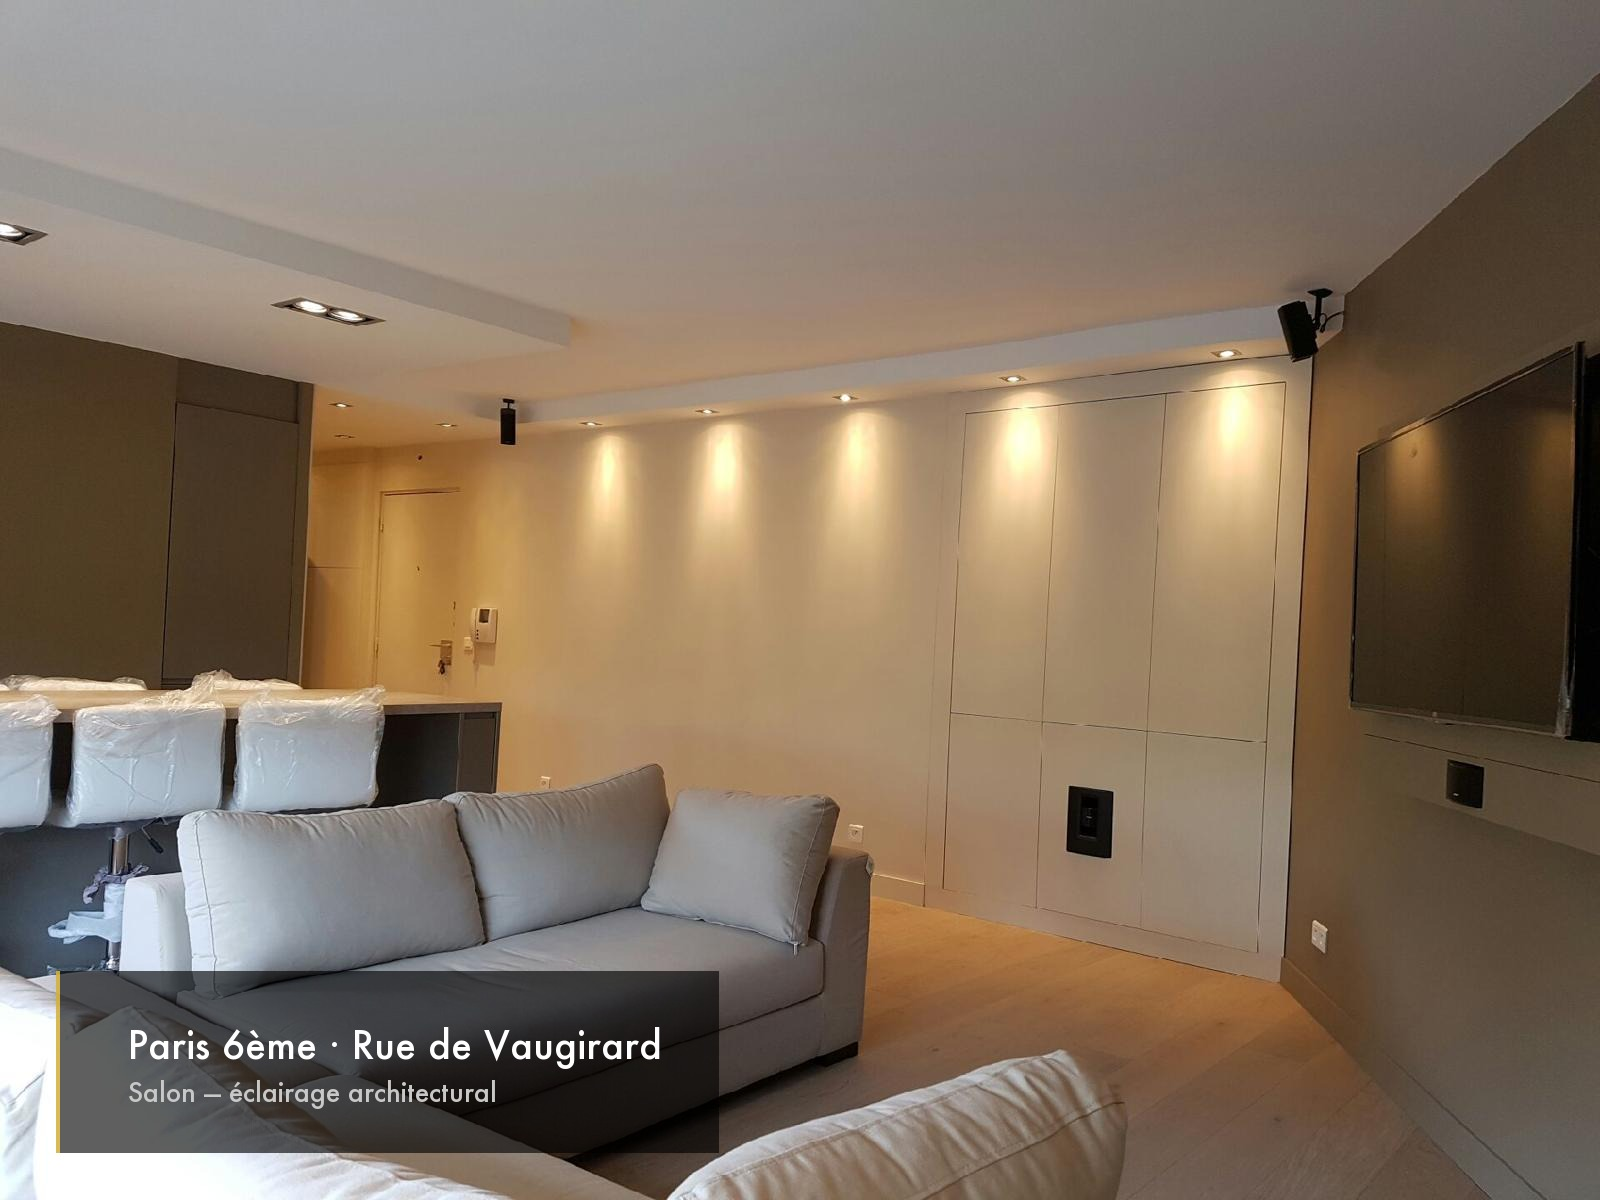
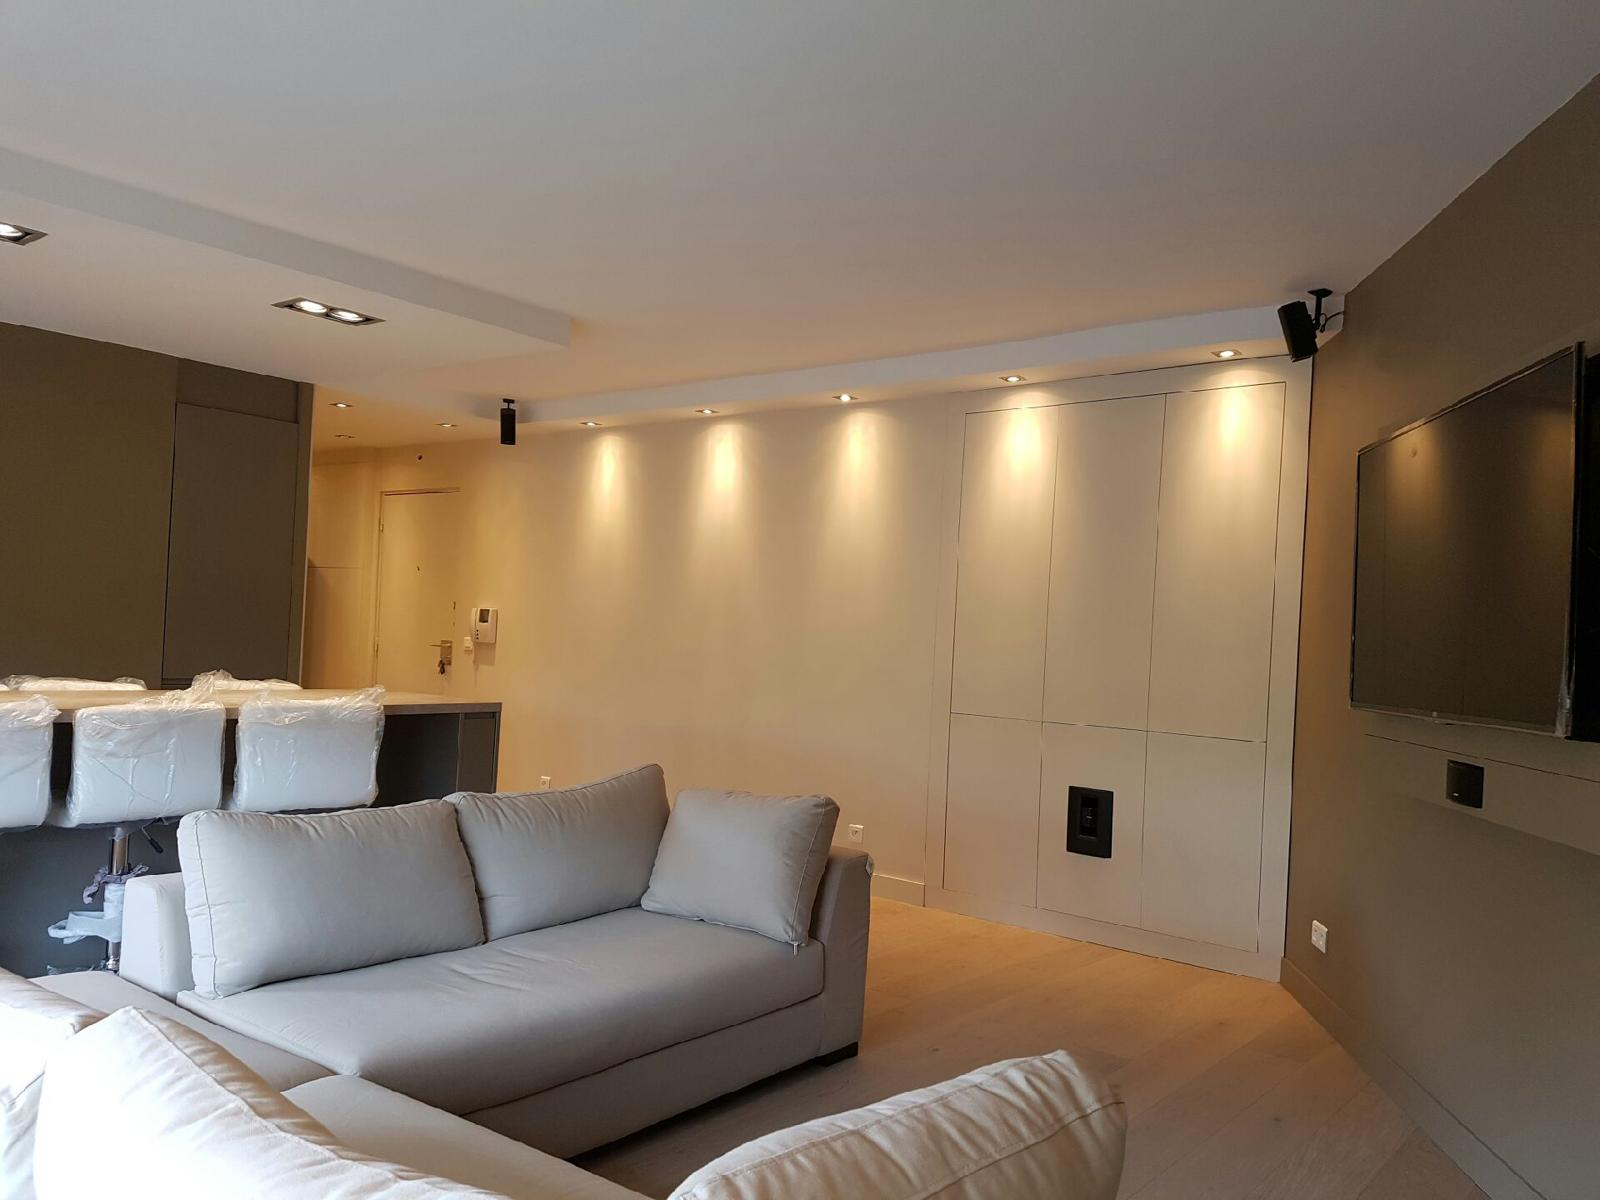
Refonte hero : layout split photos + texte compact, suppression plein écran

Changed region(s): [[0.0312, 0.8017, 0.4688, 0.9867]]

diff --git a/src/app/page.tsx b/src/app/page.tsx
@@ -53,53 +53,83 @@ const temoignages = [
 export default function HomePage() {
   return (
     <>
-      {/* Hero */}
-      <section className="relative min-h-screen flex items-center justify-center overflow-hidden">
-        <div className="absolute inset-0 bg-[#1C1C1C]" aria-hidden="true" />
-        <Image
-          src="/images/hero.jpg"
-          alt="Rénovation salon Paris — Espace Design"
-          fill
-          className="object-cover object-center opacity-45"
-          priority
-          sizes="100vw"
-        />
-
-        <div className="relative z-10 text-center px-4 sm:px-6 max-w-4xl mx-auto pt-24">
-          <div className="inline-flex items-center gap-2 bg-[#D4AF37]/20 border border-[#D4AF37]/40 text-[#D4AF37] text-xs font-medium tracking-widest uppercase px-4 py-2 rounded-full mb-6">
-            <MapPin size={12} />
-            Paris & Île-de-France
+      {/* Hero — split layout */}
+      <section className="pt-16 sm:pt-20 bg-[#FAFAF8]">
+        <div className="max-w-6xl mx-auto px-4 sm:px-6">
+          {/* Texte intro */}
+          <div className="text-center py-10 sm:py-14">
+            <div className="inline-flex items-center gap-2 bg-[#D4AF37]/10 border border-[#D4AF37]/30 text-[#B8960C] text-xs font-medium tracking-widest uppercase px-4 py-2 rounded-full mb-5">
+              <MapPin size={12} />
+              Paris & Île-de-France
+            </div>
+            <h1 className="font-display text-3xl sm:text-5xl font-bold text-[#1C1C1C] leading-tight mb-4">
+              Votre intérieur,{' '}
+              <span className="text-[#B8960C]">réinventé.</span>
+            </h1>
+            <p className="text-gray-600 max-w-xl mx-auto text-sm sm:text-base mb-8 leading-relaxed">
+              Artisan rénovateur et décorateur intérieur à Paris.
+              Finitions haut de gamme, travail soigné, résultat qui vous ressemble.
+            </p>
+            <div className="flex flex-col sm:flex-row gap-3 justify-center">
+              <a
+                href="tel:+33611783867"
+                className="flex items-center justify-center gap-2 bg-[#1C1C1C] text-white px-7 py-3.5 rounded font-semibold text-sm hover:bg-[#B8960C] transition-colors"
+              >
+                <Phone size={16} />
+                06 11 78 38 67
+              </a>
+              <Link
+                href="/contact"
+                className="flex items-center justify-center gap-2 border border-[#1C1C1C] text-[#1C1C1C] px-7 py-3.5 rounded font-medium text-sm hover:bg-[#1C1C1C] hover:text-white transition-colors"
+              >
+                Devis gratuit <ArrowRight size={14} />
+              </Link>
+            </div>
           </div>
-          <h1 className="font-display text-4xl sm:text-6xl lg:text-7xl font-bold text-white leading-tight mb-6">
-            Votre intérieur,{' '}
-            <span className="text-[#D4AF37]">réinventé.</span>
-          </h1>
-          <p className="text-lg sm:text-xl text-gray-300 max-w-2xl mx-auto mb-10 leading-relaxed">
-            Artisan rénovateur et décorateur intérieur à Paris. Des finitions
-            haut de gamme, un travail soigné, un résultat qui vous ressemble.
-          </p>
-          <div className="flex flex-col sm:flex-row gap-4 justify-center">
-            <a
-              href="tel:+33611783867"
-              className="flex items-center justify-center gap-2 bg-[#D4AF37] text-[#1C1C1C] px-8 py-4 rounded font-semibold text-base hover:bg-[#c9a030] transition-colors"
-            >
-              <Phone size={18} />
-              06 11 78 38 67
-            </a>
-            <Link
-              href="/contact"
-              className="flex items-center justify-center gap-2 border border-white/40 text-white px-8 py-4 rounded font-medium text-base hover:bg-white/10 transition-colors"
-            >
-              Demander un devis gratuit
-              <ArrowRight size={16} />
-            </Link>
-          </div>
-          <p className="text-gray-500 text-sm mt-6">Réponse sous 24h — Devis gratuit</p>
-        </div>
 
-        {/* Scroll indicator */}
-        <div className="absolute bottom-8 left-1/2 -translate-x-1/2 flex flex-col items-center gap-2 text-gray-500">
-          <div className="w-px h-8 bg-gradient-to-b from-transparent to-gray-500" />
+          {/* Grille photos hero — 3 photos côte à côte */}
+          <div className="grid grid-cols-3 gap-2 sm:gap-3 pb-10">
+            <div className="relative rounded-xl overflow-hidden h-48 sm:h-72 col-span-2">
+              <Image
+                src="/images/hero.jpg"
+                alt="Salon rénovation Paris — Espace Design"
+                fill
+                className="object-cover object-center"
+                priority
+                sizes="(max-width: 640px) 66vw, 50vw"
+              />
+              <div className="absolute bottom-0 left-0 right-0 p-3 bg-gradient-to-t from-black/60 to-transparent">
+                <p className="text-white text-xs font-medium">Paris 6e · Rue de Vaugirard</p>
+                <p className="text-[#D4AF37] text-xs">Salon — éclairage architectural</p>
+              </div>
+            </div>
+            <div className="flex flex-col gap-2 sm:gap-3">
+              <div className="relative rounded-xl overflow-hidden flex-1">
+                <Image
+                  src="/images/realisations/04-terrasse-vue-paris.jpg"
+                  alt="Terrasse Paris 9e — Espace Design"
+                  fill
+                  className="object-cover object-center"
+                  sizes="(max-width: 640px) 33vw, 25vw"
+                />
+                <div className="absolute bottom-0 left-0 right-0 p-2 bg-gradient-to-t from-black/60 to-transparent">
+                  <p className="text-white text-xs hidden sm:block">Paris 9e</p>
+                </div>
+              </div>
+              <div className="relative rounded-xl overflow-hidden flex-1">
+                <Image
+                  src="/images/realisations/01-salon-parisien-bibliotheque.jpg"
+                  alt="Bibliothèque sur-mesure Paris — Espace Design"
+                  fill
+                  className="object-cover object-center"
+                  sizes="(max-width: 640px) 33vw, 25vw"
+                />
+                <div className="absolute bottom-0 left-0 right-0 p-2 bg-gradient-to-t from-black/60 to-transparent">
+                  <p className="text-white text-xs hidden sm:block">Paris 7e</p>
+                </div>
+              </div>
+            </div>
+          </div>
         </div>
       </section>
 
